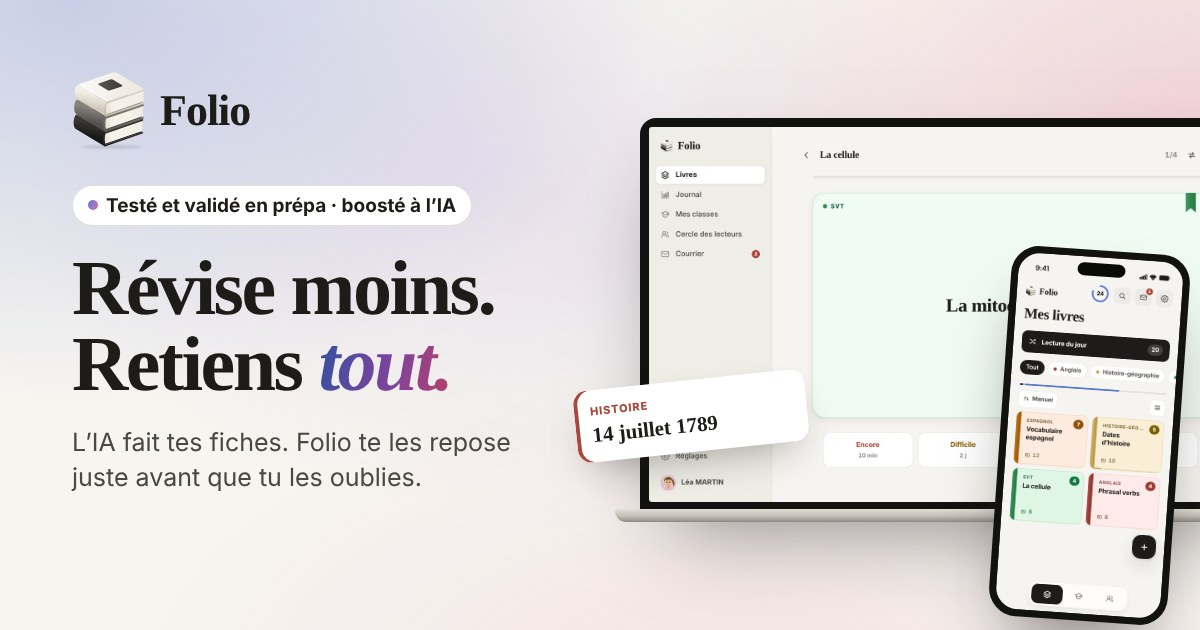
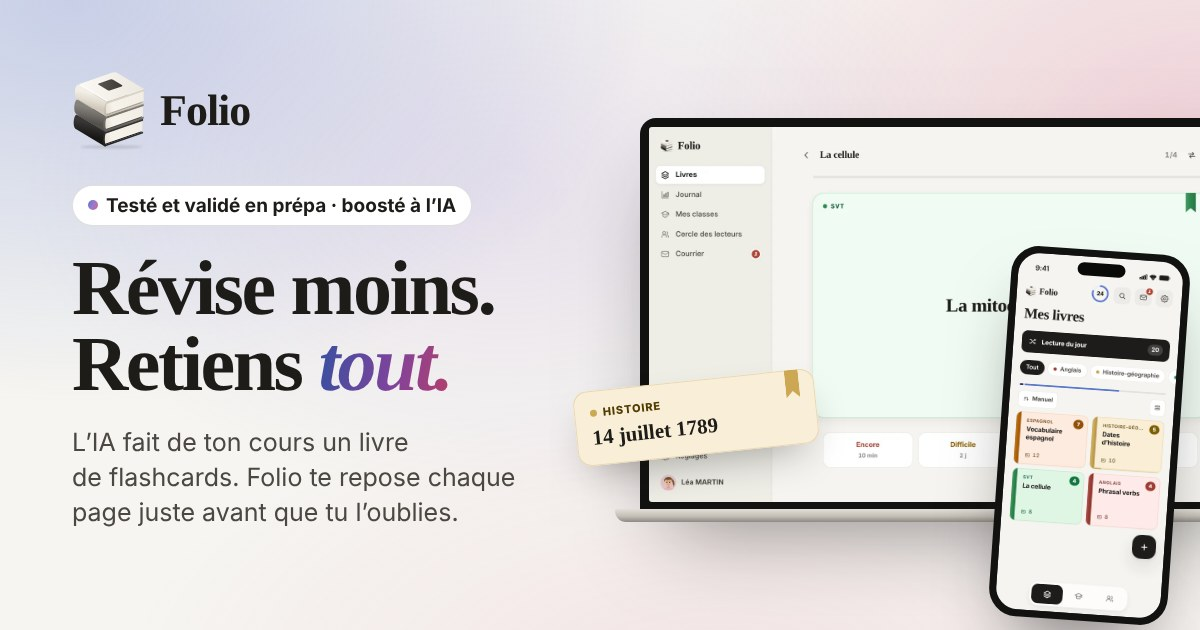
Page d'accueil : un livre de flashcards, des pages recto verso
« L'IA transforme ton cours en fiches » trompait : en français, une
fiche de révision est un résumé écrit, pas une question et sa réponse.
La page parle maintenant comme l'app, avec le mot qui dit ce que c'est :
« L'IA fait de ton cours un livre de flashcards. Folio te repose chaque
page juste avant que tu l'oublies. » Une page a sa question au recto et
sa réponse au verso (recto et verso sont des mots du livre ; un folio est
une feuille). La tuile de l'import le dit, la FAQ s'ouvre sur « C'est
quoi, un livre de flashcards ? », et la description, Open Graph,
Twitter, les données structurées (identiques à la FAQ visible), les
étiquettes des boutons, la légende du graphique, les tarifs et le
tableau suivent.

La phrase du moteur, élevée : « Il apprend ta mémoire, page après page,
et te rend chacune au moment où elle allait s'effacer. »

L'image de partage est refaite avec ce texte et une page d'histoire
dessinée comme dans l'app ; tools/affiches.js prend l'option « og » pour
ne refaire qu'elle. test/site.test.js refuse désormais « fiche » dans le
texte affiché.

Claude-Session: https://claude.ai/code/session_017ZJcNg8QTgqSM5HhLZouon

Changed region(s): [[0.0617, 0.6937, 0.4317, 0.8444], [0.4625, 0.573, 0.6783, 0.754]]

diff --git a/index.html b/index.html
@@ -26,7 +26,7 @@
 </script>
 <meta name="viewport" content="width=device-width,initial-scale=1,viewport-fit=cover">
 <title>Folio : l’app de révision boostée à l’IA, testée et validée en prépa</title>
-<meta name="description" content="L’IA transforme ton cours en fiches, Folio te les repose juste avant l’oubli. Gratuit, hors ligne, pour les élèves, les profs et les établissements.">
+<meta name="description" content="L’IA fait de ton cours un livre de flashcards, et Folio te repose chaque page juste avant l’oubli. Gratuit, hors ligne, pour élèves, profs et établissements.">
 <link rel="canonical" href="https://www.folioflashcard.online/">
 <meta name="robots" content="index,follow,max-image-preview:large">
 <meta name="theme-color" content="#F6F5F1">
@@ -44,14 +44,14 @@
 <meta property="og:locale" content="fr_FR">
 <meta property="og:url" content="https://www.folioflashcard.online/">
 <meta property="og:title" content="Folio : révise moins, retiens tout">
-<meta property="og:description" content="L’IA transforme ton cours en fiches, Folio te les repose juste avant l’oubli. Gratuit, hors ligne, sur téléphone et ordinateur.">
+<meta property="og:description" content="L’IA fait de ton cours un livre de flashcards, et Folio te repose chaque page juste avant l’oubli. Gratuit, hors ligne, sur téléphone et ordinateur.">
 <meta property="og:image" content="https://www.folioflashcard.online/site/og.jpg">
 <meta property="og:image:width" content="1200">
 <meta property="og:image:height" content="630">
-<meta property="og:image:alt" content="Folio, l’app de révision : trois livres empilés et une fiche qui se retourne">
+<meta property="og:image:alt" content="Folio, l’app de révision : trois livres empilés, l’app sur ordinateur et téléphone, et une page de flashcard">
 <meta name="twitter:card" content="summary_large_image">
 <meta name="twitter:title" content="Folio : révise moins, retiens tout">
-<meta name="twitter:description" content="L’IA transforme ton cours en fiches, Folio te les repose juste avant l’oubli. Gratuit, hors ligne, sur téléphone et ordinateur.">
+<meta name="twitter:description" content="L’IA fait de ton cours un livre de flashcards, et Folio te repose chaque page juste avant l’oubli. Gratuit, hors ligne, sur téléphone et ordinateur.">
 <meta name="twitter:image" content="https://www.folioflashcard.online/site/og.jpg">
 <script type="application/ld+json">
 {
@@ -78,7 +78,7 @@
       "name": "Folio",
       "url": "https://www.folioflashcard.online/",
       "image": "https://www.folioflashcard.online/site/og.jpg",
-      "description": "Application de révision par fiches, boostée à l’IA : l’IA transforme un cours en fiches, et chaque fiche revient juste avant d’être oubliée. Testée et validée en classe prépa. Gratuite, hors ligne, sur téléphone et ordinateur.",
+      "description": "Application de révision boostée à l’IA : elle fait d’un cours un livre de flashcards, et chaque page revient juste avant d’être oubliée. Testée et validée en classe prépa. Gratuite, hors ligne, sur téléphone et ordinateur.",
       "applicationCategory": "EducationalApplication",
       "operatingSystem": "Web, iOS, Android, Windows, macOS",
       "inLanguage": "fr-FR",
@@ -94,15 +94,17 @@
     {
       "@type": "FAQPage",
       "mainEntity": [
+        { "@type": "Question", "name": "C’est quoi, un livre de flashcards ?",
+          "acceptedAnswer": { "@type": "Answer", "text": "Ton cours, mis en questions. Chaque page porte une question au recto et sa réponse au verso : tu lis, tu cherches, tu retournes la page. Folio range tes pages en livres, un par chapitre ou par matière." } },
         { "@type": "Question", "name": "Folio est-il vraiment gratuit ?",
-          "acceptedAnswer": { "@type": "Answer", "text": "Oui. Le moteur de révision, tes livres, la synchro et les défis sont gratuits, sans publicité. Folio+ ajoute surtout la création de fiches par l’IA." } },
-        { "@type": "Question", "name": "Comment l’IA fait-elle mes fiches ?",
-          "acceptedAnswer": { "@type": "Answer", "text": "Donne-lui ton cours, en texte, en photo ou en PDF. Elle en tire les questions et les réponses, tu relis et tu gardes ce qui te va." } },
-        { "@type": "Question", "name": "Comment Folio sait-il quand me reposer une fiche ?",
-          "acceptedAnswer": { "@type": "Answer", "text": "À chaque réponse, tu dis si c’était facile ou non. Folio en déduit le moment où tu commencerais à oublier, et te repose la fiche juste avant. C’est la répétition espacée, réglée pour que tu gardes 9 fiches sur 10." } },
+          "acceptedAnswer": { "@type": "Answer", "text": "Oui. Le moteur de révision, tes livres, la synchro et les défis sont gratuits, sans publicité. Folio+ ajoute surtout l’IA en grand : 50 cours par mois, photos et PDF compris." } },
+        { "@type": "Question", "name": "Comment l’IA transforme-t-elle mon cours en flashcards ?",
+          "acceptedAnswer": { "@type": "Answer", "text": "Donne-lui ton cours, en texte, en photo ou en PDF. Elle en tire les questions et les réponses, une par page, la question au recto et la réponse au verso. Tu relis et tu gardes ce qui te va." } },
+        { "@type": "Question", "name": "Comment Folio sait-il quand me reposer une page ?",
+          "acceptedAnswer": { "@type": "Answer", "text": "À chaque page, tu dis si c’était facile ou non. Folio en déduit le moment où tu commencerais à l’oublier, et te la repose juste avant. C’est la répétition espacée, réglée pour que tu retiennes 9 pages sur 10." } },
         { "@type": "Question", "name": "Ça marche sans connexion ?",
           "acceptedAnswer": { "@type": "Answer", "text": "Oui. Tu révises dans le métro ou en avion, et tout se synchronise dès que le réseau revient." } },
-        { "@type": "Question", "name": "Je peux reprendre mes anciennes fiches ?",
+        { "@type": "Question", "name": "Je peux reprendre mes anciennes flashcards ?",
           "acceptedAnswer": { "@type": "Answer", "text": "Oui. Colle-les ou importe le fichier, un CSV marche aussi. Folio en fait un livre en quelques secondes." } },
         { "@type": "Question", "name": "Comment équiper mon établissement ?",
           "acceptedAnswer": { "@type": "Answer", "text": "Avec Folio Campus. Demandez une démo : 30 jours gratuits pour 60 élèves, sans engagement. Ensuite, c’est 3 € HT par élève et par an, 300 € HT minimum." } },
@@ -199,7 +201,7 @@
         <li class="pastille pastille-ia"><svg class="ic" aria-hidden="true"><use href="#i-etincelle"/></svg><span>Boosté à l’IA</span></li>
       </ul>
       <h1 id="titre" class="titre-heros"><span class="mot">Révise</span> <span class="mot">moins.</span> <span class="mot">Retiens</span> <span class="mot">tout.</span></h1>
-      <p class="chapeau">L’IA transforme ton cours en fiches. Folio te les repose juste avant que tu les oublies.</p>
+      <p class="chapeau">L’IA fait de ton cours un livre de flashcards. Folio te repose chaque page juste avant que tu l’oublies.</p>
       <div class="actions">
         <a class="bt bt-encre bt-grand" href="/inscription">Créer un compte<svg class="ic" aria-hidden="true"><use href="#i-fleche"/></svg></a>
         <a class="bt bt-blanc bt-grand" href="/essayer"><svg class="ic" aria-hidden="true"><use href="#i-lecture"/></svg>Essayer sans compte</a>
@@ -215,7 +217,7 @@
               <div class="ecran" data-ecran="pc">
                 <img class="affiche" src="/site/affiches/pc.webp" width="1440" height="900" fetchpriority="high" decoding="async"
                   srcset="/site/affiches/pc-petit.webp 720w, /site/affiches/pc.webp 1440w" sizes="(max-width: 640px) 86vw, 900px"
-                  alt="Folio sur ordinateur : une fiche de révision retournée, sa réponse et les quatre boutons Encore, Difficile, Correct, Facile">
+                  alt="Folio sur ordinateur : une page du livre « La cellule » retournée, la réponse au verso et les quatre boutons Encore, Difficile, Correct, Facile">
                 <video class="video" muted loop playsinline preload="none" data-src="" hidden></video>
               </div>
             </div>
@@ -242,7 +244,7 @@
 
         <!-- La pile qu'on note soi-même (site.js) : le moteur, au bout des doigts. -->
         <div class="essai" id="essai" role="group" aria-labelledby="essai-t">
-          <p class="cache" id="essai-t">Essaie le moteur : note la fiche</p>
+          <p class="cache" id="essai-t">Essaie le moteur : note la page</p>
           <div class="essai-pile" aria-hidden="true">
             <div class="carte" data-rang="0" data-teinte="yellow"><div class="carte-in"><div class="face"><small>Histoire</small><b>Prise de la Bastille</b></div><div class="face verso"><small>Histoire</small><b>14 juillet 1789</b></div></div></div>
             <div class="carte" data-rang="1" data-teinte="green"><div class="carte-in"><div class="face"><small>SVT</small><b>Mitochondrie</b></div><div class="face verso"><small>SVT</small><b>Centrale énergétique de la cellule</b></div></div></div>
@@ -250,10 +252,10 @@
             <div class="carte" data-rang="3" data-teinte="purple"><div class="carte-in"><div class="face"><small>Philosophie</small><b>Critique de la raison pure</b></div><div class="face verso"><small>Philosophie</small><b>Kant, 1781</b></div></div></div>
           </div>
           <div class="essai-notes">
-            <button type="button" class="n0" data-note="0" aria-label="Encore : la fiche revient dans dix minutes">Encore<i aria-hidden="true">10 min</i></button>
-            <button type="button" class="n1" data-note="1" aria-label="Difficile : la fiche revient dans deux jours">Difficile<i aria-hidden="true">2 j</i></button>
-            <button type="button" class="n2" data-note="2" aria-label="Correct : la fiche revient dans quatre jours">Correct<i aria-hidden="true">4 j</i></button>
-            <button type="button" class="n3" data-note="3" aria-label="Facile : la fiche revient dans neuf jours">Facile<i aria-hidden="true">9 j</i></button>
+            <button type="button" class="n0" data-note="0" aria-label="Encore : la page revient dans dix minutes">Encore<i aria-hidden="true">10 min</i></button>
+            <button type="button" class="n1" data-note="1" aria-label="Difficile : la page revient dans deux jours">Difficile<i aria-hidden="true">2 j</i></button>
+            <button type="button" class="n2" data-note="2" aria-label="Correct : la page revient dans quatre jours">Correct<i aria-hidden="true">4 j</i></button>
+            <button type="button" class="n3" data-note="3" aria-label="Facile : la page revient dans neuf jours">Facile<i aria-hidden="true">9 j</i></button>
           </div>
           <p class="essai-indice" aria-hidden="true"><svg class="essai-fleche" viewBox="0 0 36 32"><path d="M33 28C22 29 12 24 9 7"/><path d="M3.5 12.5 9 6.5l5.5 6"/></svg><span class="souris">Clique</span><span class="doigt">Touche</span>&nbsp;pour tester</p>
           <span class="essai-retour" aria-hidden="true"></span>
@@ -289,7 +291,7 @@
     <div class="moteur-tete rv">
       <p class="surtitre">Le moteur</p>
       <h2 id="moteur-t" class="titre">Le meilleur moteur de révision <em>au&nbsp;monde.</em></h2>
-      <p class="texte">Il apprend comment tu oublies, fiche par fiche, et te repose chacune juste avant que tu la perdes.</p>
+      <p class="texte">Il apprend ta mémoire, page après page, et te rend chacune au moment où elle allait s’effacer.</p>
     </div>
     <!-- Les courbes sont calculées par src/site/courbes.js et posées par site.js. -->
     <figure class="courbe rv" id="courbe" aria-labelledby="courbe-l">
@@ -323,7 +325,7 @@
         </div>
         <div class="axe-x" aria-hidden="true"><span class="x-j" style="--x:.0523">1 j</span><span style="--x:.1385">1 sem.</span><span style="--x:.2886">1 mois</span><span style="--x:.5">3 mois</span><span style="--x:.7071">6 mois</span><span style="--x:1">1 an</span></div>
       </div>
-      <figcaption id="courbe-l" class="cache">Ce que tu retiens de cinq fiches pendant un an. Sans révision, le souvenir s’efface : la moitié est partie au bout d’un mois, et il en reste moins de deux sur dix au bout d’un an. Avec Folio, chaque fiche revient juste avant l’oubli et le souvenir reste au-dessus de neuf sur dix toute l’année, avec des révisions de plus en plus espacées.</figcaption>
+      <figcaption id="courbe-l" class="cache">Ce que tu retiens de cinq pages pendant un an. Sans révision, le souvenir s’efface : la moitié est partie au bout d’un mois, et il en reste moins de deux sur dix au bout d’un an. Avec Folio, chaque page revient juste avant l’oubli et le souvenir reste au-dessus de neuf sur dix toute l’année, avec des révisions de plus en plus espacées.</figcaption>
     </figure>
   </section>
 
@@ -339,6 +341,7 @@
           <svg class="ic eclat e1"><use href="#i-etincelle"/></svg><svg class="ic eclat e2"><use href="#i-etincelle"/></svg><svg class="ic eclat e3"><use href="#i-etincelle"/></svg>
         </div>
         <h3>Ton cours devient un livre</h3>
+        <p>Une question au recto de chaque page, la réponse au verso.</p>
         <ul class="sources">
           <li><svg class="ic" aria-hidden="true"><use href="#i-photo"/></svg>Photo</li>
           <li><svg class="ic" aria-hidden="true"><use href="#i-fichier"/></svg>PDF</li>
@@ -535,10 +538,10 @@
         <a class="bt bt-clair bt-plein" href="/inscription">Créer un compte</a>
         <ul class="inclus">
           <li>Le moteur de révision complet</li>
-          <li>Livres et fiches sans limite</li>
+          <li>Livres et pages sans limite</li>
           <li>Hors ligne, synchro sur tous tes écrans</li>
           <li>Défis, clubs et amis</li>
-          <li>3 cours par mois en fiches avec l’IA</li>
+          <li>3 cours par mois en flashcards avec l’IA</li>
         </ul>
       </article>
 
@@ -550,8 +553,8 @@
         <a class="bt bt-encre bt-plein" href="/inscription">Passer à Folio+<svg class="ic" aria-hidden="true"><use href="#i-fleche"/></svg></a>
         <ul class="inclus">
           <li><b>Tout Folio, et&#8239;:</b></li>
-          <li>50 cours par mois en fiches avec l’IA</li>
-          <li>Une photo ou un PDF en fiches</li>
+          <li>50 cours par mois en flashcards avec l’IA</li>
+          <li>Une photo ou un PDF en flashcards</li>
           <li>Les nouveautés en avant-première</li>
         </ul>
       </article>
@@ -579,12 +582,12 @@
         </thead>
         <tbody>
           <tr><th scope="row">Le moteur de révision complet</th><td><svg class="ic oui" role="img" aria-label="Inclus"><use href="#i-ok"/></svg></td><td class="col-plus"><svg class="ic oui" role="img" aria-label="Inclus"><use href="#i-ok"/></svg></td><td><svg class="ic oui" role="img" aria-label="Inclus"><use href="#i-ok"/></svg></td></tr>
-          <tr><th scope="row">Livres et fiches sans limite</th><td><svg class="ic oui" role="img" aria-label="Inclus"><use href="#i-ok"/></svg></td><td class="col-plus"><svg class="ic oui" role="img" aria-label="Inclus"><use href="#i-ok"/></svg></td><td><svg class="ic oui" role="img" aria-label="Inclus"><use href="#i-ok"/></svg></td></tr>
+          <tr><th scope="row">Livres et pages sans limite</th><td><svg class="ic oui" role="img" aria-label="Inclus"><use href="#i-ok"/></svg></td><td class="col-plus"><svg class="ic oui" role="img" aria-label="Inclus"><use href="#i-ok"/></svg></td><td><svg class="ic oui" role="img" aria-label="Inclus"><use href="#i-ok"/></svg></td></tr>
           <tr><th scope="row">Hors ligne et synchro</th><td><svg class="ic oui" role="img" aria-label="Inclus"><use href="#i-ok"/></svg></td><td class="col-plus"><svg class="ic oui" role="img" aria-label="Inclus"><use href="#i-ok"/></svg></td><td><svg class="ic oui" role="img" aria-label="Inclus"><use href="#i-ok"/></svg></td></tr>
-          <tr><th scope="row">Reprendre tes anciennes fiches</th><td><svg class="ic oui" role="img" aria-label="Inclus"><use href="#i-ok"/></svg></td><td class="col-plus"><svg class="ic oui" role="img" aria-label="Inclus"><use href="#i-ok"/></svg></td><td><svg class="ic oui" role="img" aria-label="Inclus"><use href="#i-ok"/></svg></td></tr>
+          <tr><th scope="row">Reprendre tes anciennes flashcards</th><td><svg class="ic oui" role="img" aria-label="Inclus"><use href="#i-ok"/></svg></td><td class="col-plus"><svg class="ic oui" role="img" aria-label="Inclus"><use href="#i-ok"/></svg></td><td><svg class="ic oui" role="img" aria-label="Inclus"><use href="#i-ok"/></svg></td></tr>
           <tr><th scope="row">Défis en direct, clubs, amis</th><td><svg class="ic oui" role="img" aria-label="Inclus"><use href="#i-ok"/></svg></td><td class="col-plus"><svg class="ic oui" role="img" aria-label="Inclus"><use href="#i-ok"/></svg></td><td><svg class="ic oui" role="img" aria-label="Inclus"><use href="#i-ok"/></svg></td></tr>
-          <tr><th scope="row">Cours en fiches avec l’IA</th><td>3 par mois</td><td class="col-plus"><b>50 par mois</b></td><td>Pour les profs</td></tr>
-          <tr><th scope="row">Photo ou PDF en fiches</th><td><svg class="ic non" role="img" aria-label="Non inclus"><use href="#i-non"/></svg></td><td class="col-plus"><svg class="ic oui" role="img" aria-label="Inclus"><use href="#i-ok"/></svg></td><td><svg class="ic oui" role="img" aria-label="Inclus"><use href="#i-ok"/></svg></td></tr>
+          <tr><th scope="row">Cours en flashcards avec l’IA</th><td>3 par mois</td><td class="col-plus"><b>50 par mois</b></td><td>Pour les profs</td></tr>
+          <tr><th scope="row">Photo ou PDF en flashcards</th><td><svg class="ic non" role="img" aria-label="Non inclus"><use href="#i-non"/></svg></td><td class="col-plus"><svg class="ic oui" role="img" aria-label="Inclus"><use href="#i-ok"/></svg></td><td><svg class="ic oui" role="img" aria-label="Inclus"><use href="#i-ok"/></svg></td></tr>
           <tr><th scope="row">Nouveautés en avant-première</th><td><svg class="ic non" role="img" aria-label="Non inclus"><use href="#i-non"/></svg></td><td class="col-plus"><svg class="ic oui" role="img" aria-label="Inclus"><use href="#i-ok"/></svg></td><td><svg class="ic oui" role="img" aria-label="Inclus"><use href="#i-ok"/></svg></td></tr>
           <tr><th scope="row">Classes et devoirs suivis</th><td><svg class="ic non" role="img" aria-label="Non inclus"><use href="#i-non"/></svg></td><td class="col-plus"><svg class="ic non" role="img" aria-label="Non inclus"><use href="#i-non"/></svg></td><td><svg class="ic oui" role="img" aria-label="Inclus"><use href="#i-ok"/></svg></td></tr>
           <tr><th scope="row">Console du référent</th><td><svg class="ic non" role="img" aria-label="Non inclus"><use href="#i-non"/></svg></td><td class="col-plus"><svg class="ic non" role="img" aria-label="Non inclus"><use href="#i-non"/></svg></td><td><svg class="ic oui" role="img" aria-label="Inclus"><use href="#i-ok"/></svg></td></tr>
@@ -599,11 +602,12 @@
   <section class="faq enveloppe" id="faq" aria-labelledby="faq-t">
     <h2 id="faq-t" class="titre centre rv">Questions fréquentes</h2>
     <div class="questions">
-      <details class="rv"><summary>Folio est-il vraiment gratuit&#8239;?</summary><p>Oui. Le moteur de révision, tes livres, la synchro et les défis sont gratuits, sans publicité. Folio+ ajoute surtout la création de fiches par l’IA.</p></details>
-      <details class="rv"><summary>Comment l’IA fait-elle mes fiches&#8239;?</summary><p>Donne-lui ton cours, en texte, en photo ou en PDF. Elle en tire les questions et les réponses, tu relis et tu gardes ce qui te va.</p></details>
-      <details class="rv"><summary>Comment Folio sait-il quand me reposer une fiche&#8239;?</summary><p>À chaque réponse, tu dis si c’était facile ou non. Folio en déduit le moment où tu commencerais à oublier, et te repose la fiche juste avant. C’est la répétition espacée, réglée pour que tu gardes 9 fiches sur 10.</p></details>
+      <details class="rv"><summary>C’est quoi, un livre de flashcards&#8239;?</summary><p>Ton cours, mis en questions. Chaque page porte une question au recto et sa réponse au verso&#8239;: tu lis, tu cherches, tu retournes la page. Folio range tes pages en livres, un par chapitre ou par matière.</p></details>
+      <details class="rv"><summary>Folio est-il vraiment gratuit&#8239;?</summary><p>Oui. Le moteur de révision, tes livres, la synchro et les défis sont gratuits, sans publicité. Folio+ ajoute surtout l’IA en grand&#8239;: 50 cours par mois, photos et PDF compris.</p></details>
+      <details class="rv"><summary>Comment l’IA transforme-t-elle mon cours en flashcards&#8239;?</summary><p>Donne-lui ton cours, en texte, en photo ou en PDF. Elle en tire les questions et les réponses, une par page, la question au recto et la réponse au verso. Tu relis et tu gardes ce qui te va.</p></details>
+      <details class="rv"><summary>Comment Folio sait-il quand me reposer une page&#8239;?</summary><p>À chaque page, tu dis si c’était facile ou non. Folio en déduit le moment où tu commencerais à l’oublier, et te la repose juste avant. C’est la répétition espacée, réglée pour que tu retiennes 9 pages sur 10.</p></details>
       <details class="rv"><summary>Ça marche sans connexion&#8239;?</summary><p>Oui. Tu révises dans le métro ou en avion, et tout se synchronise dès que le réseau revient.</p></details>
-      <details class="rv"><summary>Je peux reprendre mes anciennes fiches&#8239;?</summary><p>Oui. Colle-les ou importe le fichier, un CSV marche aussi. Folio en fait un livre en quelques secondes.</p></details>
+      <details class="rv"><summary>Je peux reprendre mes anciennes flashcards&#8239;?</summary><p>Oui. Colle-les ou importe le fichier, un CSV marche aussi. Folio en fait un livre en quelques secondes.</p></details>
       <details class="rv"><summary>Comment équiper mon établissement&#8239;?</summary><p>Avec Folio Campus. Demandez une démo&#8239;: 30 jours gratuits pour 60 élèves, sans engagement. Ensuite, c’est 3&nbsp;€&nbsp;HT par élève et par an, 300&nbsp;€&nbsp;HT minimum.</p></details>
       <details class="rv"><summary>Où vont mes données&#8239;?</summary><p>Elles sont hébergées dans l’Union européenne. Folio n’affiche aucune publicité et n’utilise aucun traceur.</p></details>
     </div>

diff --git a/tools/affiches.js b/tools/affiches.js
@@ -5,6 +5,7 @@
 // À relancer quand ces écrans changent de visage :
 //   npm run build && npx vite preview --port 4190 --strictPort &
 //   node tools/affiches.js            (AFFICHES_URL pour une autre adresse)
+//   node tools/affiches.js og         (l'image de partage seule, depuis les affiches déjà là)
 // Le WebP est encodé par le navigateur lui-même (canvas) : aucun outil de
 // plus à installer. docs/LANDING.md.
 import { chromium } from '@playwright/test';
@@ -110,14 +111,15 @@ async function ouvrir(a) {
 
 const navigateur = await chromium.launch({ executablePath: chrome });
 mkdirSync(SORTIE, { recursive: true });
-for (const a of CAPTURES) {
+const seulOg = process.argv.includes('og');
+for (const a of seulOg ? [] : CAPTURES) {
   const { ctx, p } = await ouvrir(a);
   await p.waitForTimeout(1400);
   writeFileSync(`public/shots/${a.nom}.png`, await p.screenshot());
   console.log(`shots/${a.nom}.png`);
   await ctx.close();
 }
-for (const a of AFFICHES) {
+for (const a of seulOg ? [] : AFFICHES) {
   const { ctx, p } = await ouvrir(a);
   if (a.mobile) await barreEtat(p);
   await p.waitForTimeout(1400);
@@ -138,7 +140,7 @@ const og = await (await navigateur.newContext({ viewport: { width: 1200, height:
 await og.setContent(`<!doctype html><html lang="fr"><head><meta charset="utf-8"><style>
   body{margin:0;width:1200px;height:630px;overflow:hidden;font-family:Inter,system-ui,sans-serif;color:#1D1C19;
     background:radial-gradient(48% 64% at 6% 0%,rgba(90,118,208,.30),transparent),radial-gradient(44% 60% at 100% 24%,rgba(215,100,141,.26),transparent),
-    radial-gradient(40% 50% at 42% 30%,rgba(154,120,207,.16),transparent),radial-gradient(50% 50% at 60% 110%,rgba(215,100,141,.12),transparent),#F7F5F0}
+    radial-gradient(40% 50% at 42% 30%,rgba(154,120,207,.16),transparent),radial-gradient(50% 50% at 60% 110%,rgba(215,100,141,.12),transparent),#F6F5F1}
   .g{position:absolute;left:72px;top:70px;width:560px}
   .m{display:flex;align-items:center;gap:14px;font:700 44px 'Bitstream Charter',Charter,Georgia,serif;letter-spacing:-1px}
   .m svg{width:74px;height:auto}
@@ -156,15 +158,19 @@ await og.setContent(`<!doctype html><html lang="fr"><head><meta charset="utf-8">
     box-shadow:0 40px 70px -24px rgba(29,28,25,.55)}
   .tel img{display:block;width:100%;border-radius:22px}
   .tel i{position:absolute;top:13px;left:50%;width:48px;height:13px;margin-left:-24px;border-radius:9px;background:#0A0A09}
-  .f{position:absolute;left:575px;top:380px;width:200px;padding:14px 16px;border-radius:14px;background:#fff;transform:rotate(-6deg);
-    box-shadow:inset 4px 0 0 #A8483C,0 18px 40px -16px rgba(29,28,25,.4)}
-  .f small{display:block;font:800 11px Inter,sans-serif;letter-spacing:.08em;text-transform:uppercase;color:#A8483C}
-  .f b{display:block;margin-top:5px;font:700 21px 'Bitstream Charter',Georgia,serif}
+  /* une page d'histoire, dessinée comme dans l'app : la couverture de sa teinte (moutarde,
+     src/couleurs.js), son filet, la matière et la pastille de sa reliure, le signet */
+  .f{position:absolute;left:575px;top:380px;width:210px;padding:15px 16px;border-radius:14px;background:#F9EED7;transform:rotate(-6deg);
+    box-shadow:inset 0 0 0 1px #E9D7B0,0 18px 40px -16px rgba(29,28,25,.4)}
+  .f::before{content:'';position:absolute;right:15px;top:0;width:14px;height:28px;background:#CCA855;clip-path:polygon(0 0,100% 0,100% 100%,50% 76%,0 100%)}
+  .f small{display:flex;align-items:center;gap:6px;font:800 11px Inter,sans-serif;letter-spacing:.08em;text-transform:uppercase;color:#513C00}
+  .f small::before{content:'';width:7px;height:7px;border-radius:50%;background:#CCA855}
+  .f b{display:block;margin-top:6px;font:700 21px 'Bitstream Charter',Georgia,serif}
 </style></head><body>
   <div class="g"><div class="m">${logo}<span>Folio</span></div>
     <div class="p"><i></i>Testé et validé en prépa · boosté à l’IA</div>
     <h1>Révise moins.<br>Retiens <em>tout.</em></h1>
-    <p class="s">L’IA fait tes fiches. Folio te les repose<br>juste avant que tu les oublies.</p></div>
+    <p class="s">L’IA fait de ton cours un livre<br>de flashcards. Folio te repose chaque<br>page juste avant que tu l’oublies.</p></div>
   <div class="pc"><img src="${dataUri(SORTIE + 'pc.webp', 'image/webp')}"></div><div class="socle"></div>
   <div class="tel"><img src="${dataUri(SORTIE + 'mobile.webp', 'image/webp')}"><i></i></div>
   <div class="f"><small>Histoire</small><b>14 juillet 1789</b></div>

diff --git a/test/site.test.js b/test/site.test.js
@@ -51,6 +51,15 @@ describe('page d’accueil', () => {
     expect(fautes).toEqual([]);
   });
 
+  /* « Fiche » trompe : en français, une fiche de révision est un résumé
+     écrit. La page dit « un livre de flashcards », des pages recto verso
+     (demandé le 2026-10-27). */
+  it('aucune « fiche » dans le texte affiché : des pages, des livres, des flashcards', () => {
+    const fautes = texteVisible(html).split('\n').filter(l => /\bfiches?\b/i.test(l)).map(l => l.trim());
+    expect(fautes).toEqual([]);
+    expect(texteVisible(html)).toMatch(/livre de flashcards/);
+  });
+
   it('les données structurées se lisent', () => {
     for (const s of scripts.filter(x => /application\/ld\+json/.test(x.attrs))) {
       expect(() => JSON.parse(s.code)).not.toThrow();

diff --git a/docs/LANDING.md b/docs/LANDING.md
@@ -72,12 +72,12 @@ présente l'app en **B2C** (élèves, étudiants) et en **B2B** (établissements
   le logo en « sprite » (entre `<!-- logo:debut -->` et `<!-- logo:fin -->`,
   réécrit par `tools/logo.py`) et les icônes (tracés Lucide). Sections, dans
   l'ordre : en-tête collant · héros (la pile qui se pose, le titre mot par
-  mot, un portable qui se redresse au défilement, un téléphone, des fiches
+  mot, un portable qui se redresse au défilement, un téléphone, des pages
   qui flottent et se retournent, et **la pile qu'on note** : Encore et
   Difficile l'envoient à gauche, Correct et Facile à droite, les suivantes
   avancent, « Revient dans 4 jours » ; elle se joue seule tant qu'on n'y
   touche pas) · matières qui défilent · le moteur (« au monde », une phrase,
-  un an de mémoire de cinq fiches avec et sans Folio, une tête de lecture
+  un an de mémoire de cinq pages avec et sans Folio, une tête de lecture
   qu'on promène, les deux chiffres dans la légende) · « Du cours au
   concours » (six tuiles animées, l'IA dans la première) · Folio Campus
   (fond sombre : trois scènes animées, « Deux codes », « Chacun entre »,
@@ -119,6 +119,7 @@ présente l'app en **B2C** (élèves, étudiants) et en **B2B** (établissements
 ```sh
 npm run build && npx vite preview --port 4190 --strictPort &
 node tools/affiches.js          # réécrit public/site/affiches/*.webp et public/site/og.jpg
+node tools/affiches.js og       # l'image de partage seule (son texte et sa page sont dans le script)
 npm run build                   # les fichiers de public/ ne sont copiés qu'au build
 ```
 
@@ -281,8 +282,8 @@ recto), « flashcards » dit tout de suite ce que c'est. « Fiche » ne
 s'écrit plus nulle part sur la page.
 
 - [x] T4.1 La charte de l'app sur la page : chaque fiche dessinée (héros, pile qu'on note, tuiles, appel final) devient une **page de son livre** (le papier de la couverture `c`, son filet `b`, la matière en petites capitales et la pastille de sa reliure `d`, le grand signet) ; les matières qui défilent sont de petits livres (dos et couverture) ; les teintes viennent du nuancier (`src/couleurs.js`) ; ce qui se compte est en azur (calendrier du journal, avancement d'un devoir, podium) ; les états en `--ok`/`--ko`/`--am` ; les boutons de note comme dans l'app (papier blanc, mot en couleur, délai dessous) ; les affiches et l'image de partage vérifiées, refaites si besoin. **Fait** : quatorze règles `[data-teinte=…]` dans `site.css` (vérifiées contre `src/couleurs.js` par `test/site.test.js`), le signet partagé (`--sw`, `--sr`), la couleur d'un visage en `--j` (plus en `--c`, qui est désormais la couverture), les médailles de l'app sur le podium (chiffre à l'encre : en blanc sur l'or, 2,3:1), le papier de la page `#F6F5F1` comme l'app, la serif de l'app (Charter avant Palatino). Les affiches datent d'après le changement de couleurs (d078484) : gardées ; l'image de partage se refait avec les nouveaux textes (T4.2).
-- [ ] T4.2 Le vocabulaire : « livre de flashcards », « page », « recto/verso » partout (chapeau, `description`, Open Graph, Twitter, JSON-LD, FAQ, `aria-label`, légende du graphique, tarifs, tableau).
-- [ ] T4.3 La phrase du moteur, élevée.
+- [x] T4.2 Le vocabulaire : « livre de flashcards », « page », « recto/verso » partout (chapeau, `description`, Open Graph, Twitter, JSON-LD, FAQ, `aria-label`, légende du graphique, tarifs, tableau). **Fait** : chapeau « L’IA fait de ton cours un livre de flashcards. Folio te repose chaque page juste avant que tu l’oublies. » ; la tuile de l'import dit ce qu'est une page (« Une question au recto de chaque page, la réponse au verso. ») ; une question de plus en tête de la FAQ, « C’est quoi, un livre de flashcards ? » (et dans le JSON-LD, qui doit rester identique à la FAQ visible) ; l'image de partage refaite (`node tools/affiches.js og`, nouvelle option) avec ce texte et une page d'histoire dessinée comme dans l'app. `test/site.test.js` refuse désormais « fiche » dans le texte affiché.
+- [x] T4.3 La phrase du moteur, élevée : « Il apprend ta mémoire, page après page, et te rend chacune au moment où elle allait s’effacer. » (« juste avant » reste la promesse du héros ; ici, ce que fait le moteur, sans surpromettre un « instant précis »).
 - [ ] T4.4 Folio Campus : la marque (logo + « Campus » dans la lumière de la marque) et une étiquette « Pour les établissements » ; « Déployé dans tout votre établissement en dix minutes » ; « Cartes élève sans e-mail » remplacée par une fonction claire (tuile, offre, tableau) ; un appel à la démo en fin de bloc.
 - [ ] T4.5 Le « + » de Folio+ dans le dégradé de « tout. » (titre des tarifs, offre, tableau).
 - [ ] T4.6 Les appels à l'action : un seul geste principal par écran, honnête (« Commencer gratuitement », « Demander une démo »), rien de faux (ni compte à rebours, ni « le plus choisi »), le téléphone garde toujours un bouton d'inscription en vue.
